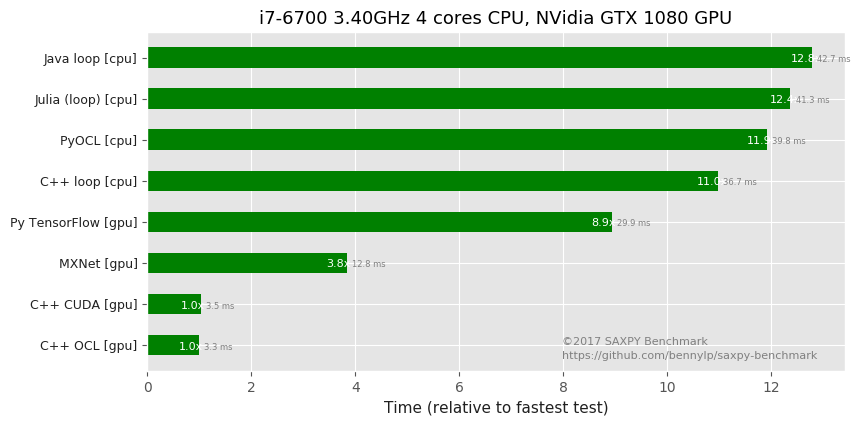
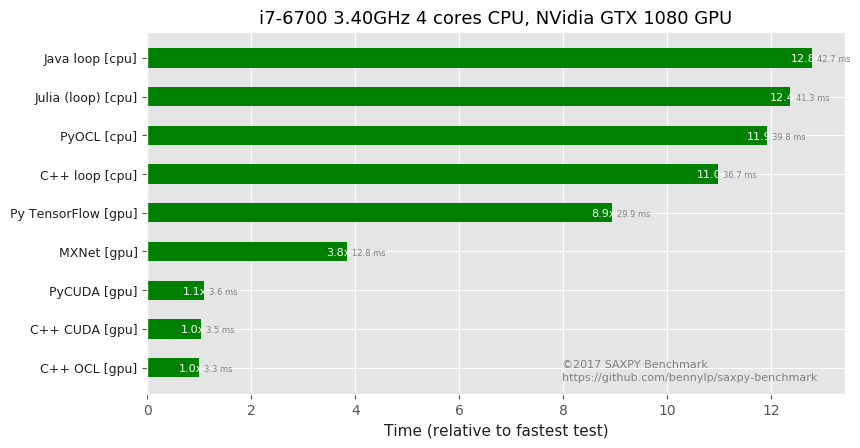
Added PyCUDA on Linux

diff --git a/results/README.md b/results/README.md
@@ -25,6 +25,7 @@ some statistics with them in the future:
 - Py Pandas [cpu]
 - Py TensorFlow [cpu]
 - Py TensorFlow [gpu]
+- PyCUDA [gpu]
 - PyOCL [cpu]
 - PyOCL [gpu]
 - Python loop [cpu]
@@ -87,6 +88,7 @@ Submitted by Benny Prijono on 2017-11-21
 | C++ loop [cpu] | 36.676 | 0.217 | 10.98x |
 | Py TensorFlow [gpu] | 29.887 | 0.068 | 8.94x |
 | MXNet [gpu] | 12.843 | 0.043 | 3.84x |
+| PyCUDA [gpu] | 3.621 | 0.009 | 1.08x |
 | C++ CUDA [gpu] | 3.467 | 0.022 | 1.04x |
 | C++ OCL [gpu] | 3.341 | 0.012 | 1.00x |
 
